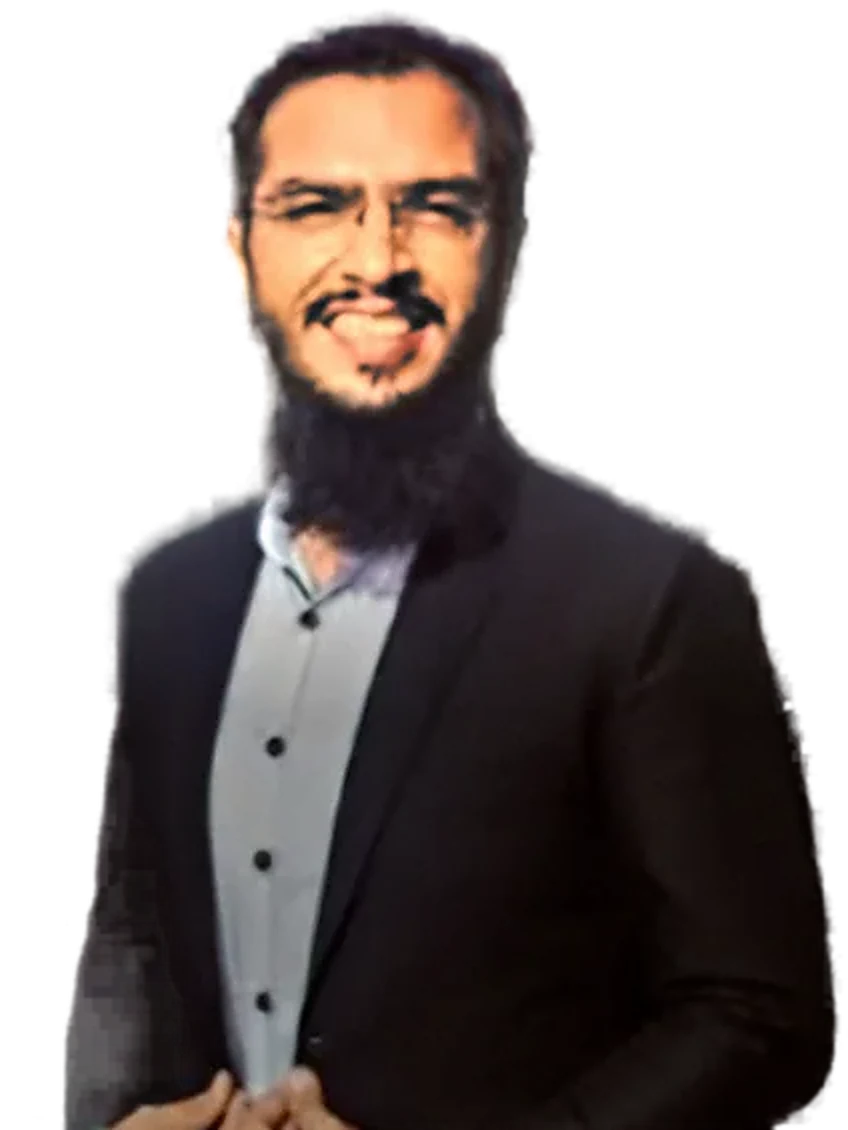
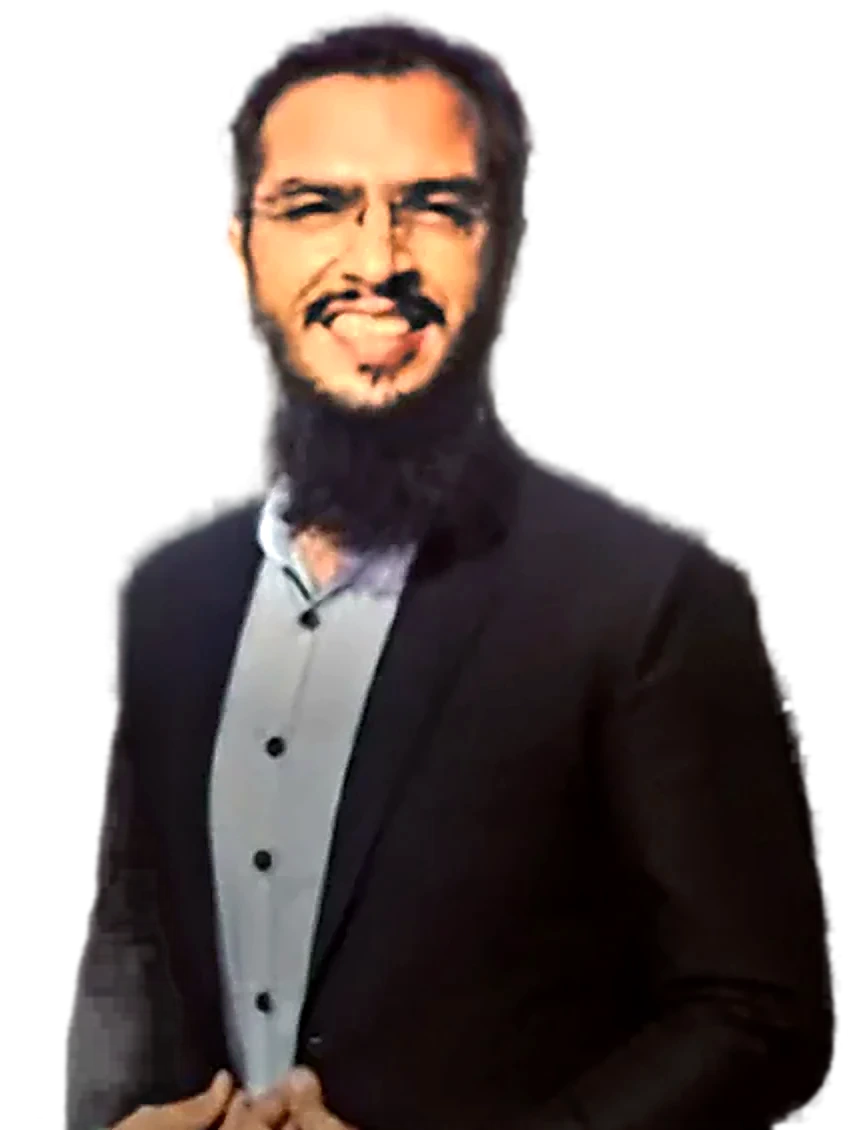
Add files via upload

diff --git a/index.html b/index.html
@@ -417,22 +417,33 @@ html.has-cursor .cursor{display:block}
 .hero-copy .lede b{color:var(--c-ink);font-weight:650}
 .hero-cta{display:flex;flex-wrap:wrap;align-items:center;gap:var(--s-4) var(--s-6);margin-top:var(--s-6)}
 
-/* lens hero */
-.lens{position:relative;margin:0;aspect-ratio:1/1.12;max-width:520px;width:100%;justify-self:center;transition:transform .7s var(--e-out)}
-.lens-field{position:absolute;left:0;right:0;bottom:0;aspect-ratio:1;border-radius:50%;overflow:hidden;background:radial-gradient(60% 60% at 50% 45%,color-mix(in oklab,var(--c-accent) 26%,transparent),transparent 70%),radial-gradient(90% 90% at 30% 80%,color-mix(in oklab,var(--c-cool) 20%,transparent),transparent 65%),var(--c-paper-2);border:1px solid var(--c-line-2);box-shadow:inset 0 0 0 10px color-mix(in oklab,var(--c-paper) 70%,transparent),inset 0 0 80px color-mix(in oklab,var(--c-paper) 85%,transparent),0 50px 100px -50px var(--c-shadow)}
-.reticle{position:absolute;inset:0;width:100%;height:100%}
-.reticle circle,.reticle path,.reticle line{fill:none;stroke:var(--c-ink-3);stroke-width:1;opacity:.45}
+/* lens hero: frameless portrait under an open reticle, lit from behind */
+.lens{position:relative;margin:0;aspect-ratio:1/1.12;max-width:540px;width:100%;justify-self:center;--px:0;--py:0;isolation:isolate}
+.ln-glow{position:absolute;left:6%;right:6%;top:8%;bottom:14%;border-radius:50%;z-index:-2;
+  background:radial-gradient(closest-side,color-mix(in oklab,var(--c-accent) 36%,transparent),transparent 72%),radial-gradient(42% 42% at 72% 30%,color-mix(in oklab,var(--c-cool) 34%,transparent),transparent 70%),radial-gradient(36% 36% at 26% 70%,color-mix(in oklab,var(--c-ok) 18%,transparent),transparent 70%);
+  filter:blur(30px);opacity:.9;transform:translate(calc(var(--px)*-18px),calc(var(--py)*-14px));animation:lnglow 7s ease-in-out infinite}
+@keyframes lnglow{50%{opacity:.62;scale:1.06}}
+.reticle{position:absolute;left:2%;top:4%;width:96%;height:auto;z-index:-1;overflow:visible;transform:translate(calc(var(--px)*-10px),calc(var(--py)*-8px))}
+.reticle circle,.reticle path,.reticle line{fill:none;stroke:var(--c-ink-3);stroke-width:1;opacity:.4}
 .reticle .r2{stroke-dasharray:2 6}
-.mag-read{position:absolute;left:50%;bottom:7%;transform:translateX(-50%);font-size:12px;letter-spacing:.12em;color:var(--c-ink-2);padding:4px 10px;border-radius:6px;background:color-mix(in oklab,var(--c-paper) 70%,transparent)}
-.lens-img{position:absolute;left:50%;bottom:0;width:78%;height:auto;transform:translateX(-50%);filter:drop-shadow(0 30px 40px var(--c-shadow));-webkit-mask-image:linear-gradient(#000 88%,transparent);mask-image:linear-gradient(#000 88%,transparent);border-radius:0 0 40% 40%}
-.lens .spec-tag{position:absolute;z-index:2;animation:bob 7s ease-in-out infinite}
-.lens .t1{left:-4%;top:30%}.lens .t2{right:-6%;top:46%;animation-delay:-2.3s}.lens .t3{left:6%;bottom:16%;animation-delay:-4.6s}
-@keyframes bob{50%{transform:translateY(-8px)}}
-.lens figcaption{position:absolute;right:2%;bottom:-6px;z-index:2;display:grid;gap:2px;text-align:right;padding:10px 14px;border-radius:14px;background:color-mix(in oklab,var(--c-paper-2) 90%,transparent);border:1px solid var(--c-line-2);backdrop-filter:blur(10px);-webkit-backdrop-filter:blur(10px)}
-.lens figcaption b{font:600 15px/1.2 var(--f-display);letter-spacing:-.03em}
+.reticle .arc{stroke:var(--c-accent);stroke-width:2.4;opacity:1;stroke-linecap:round;stroke-dasharray:16 84;transform-origin:200px 200px;animation:lnorb 18s linear infinite;filter:drop-shadow(0 0 6px var(--c-accent-glow))}
+@keyframes lnorb{to{transform:rotate(360deg)}}
+.ln-floor{position:absolute;left:16%;right:16%;bottom:-2%;height:10%;border-radius:50%;z-index:-1;background:radial-gradient(closest-side,var(--c-shadow),transparent);filter:blur(10px)}
+.ln-imgw{position:absolute;left:50%;bottom:0;width:86%;z-index:1;pointer-events:none;transform:translate(calc(-50% + var(--px)*8px),calc(var(--py)*5px));transition:transform .6s var(--e-out);
+  filter:drop-shadow(0 0 1px color-mix(in oklab,var(--c-accent) 45%,transparent)) drop-shadow(-6px -8px 22px color-mix(in oklab,var(--c-accent) 26%,transparent)) drop-shadow(10px -4px 24px color-mix(in oklab,var(--c-cool) 22%,transparent)) drop-shadow(0 40px 50px var(--c-shadow))}
+.lens-img{display:block;width:100%;height:auto;max-width:none;-webkit-mask-image:linear-gradient(to bottom,#000 80%,transparent 99%);mask-image:linear-gradient(to bottom,#000 80%,transparent 99%)}
+.ln-chip{position:absolute;z-index:2;border:1px solid var(--c-line-2);background:color-mix(in oklab,var(--c-paper-3) 70%,transparent);backdrop-filter:blur(14px) saturate(1.2);-webkit-backdrop-filter:blur(14px) saturate(1.2);box-shadow:0 22px 46px -26px var(--c-shadow),inset 0 1px 0 color-mix(in oklab,white 8%,transparent);
+  transform:translate(calc(var(--px)*var(--d,14px)),calc(var(--py)*var(--d,14px)));transition:transform .7s var(--e-out);animation:bob 6.5s ease-in-out infinite}
+@keyframes bob{50%{translate:0 -6px}}
+.lens .mag-read{left:50%;top:1%;margin-left:-38px;font-size:12px;letter-spacing:.12em;color:var(--c-ink-2);padding:6px 12px;border-radius:99px;animation-delay:-1s}
+.lens .spec-tag{height:32px;border-radius:99px}
+.lens .t1{left:-4%;top:30%;animation-delay:-2s}.lens .t2{right:-6%;top:44%;animation-delay:-3.4s}.lens .t3{left:2%;bottom:20%;animation-delay:-4.6s}
+.lens figcaption{right:2%;bottom:5%;display:grid;gap:2px;text-align:right;padding:12px 16px;border-radius:16px;animation-duration:8s;animation-delay:-5s}
+.lens figcaption b{font:600 16px/1.2 var(--f-display);letter-spacing:-.02em}
 .lens figcaption span{font:500 11.5px var(--f-mono);color:var(--c-ink-3)}
-@media (max-width:920px){.lens{max-width:380px}.lens .t1{left:0}.lens .t2{right:0}}
+@media (max-width:920px){.lens{max-width:420px}.lens .t1{left:0}.lens .t2{right:2%}.reticle{left:6%;width:88%}.lens .mag-read{top:-4%}}
 @media (max-width:480px){.lens .t3{display:none}.lens .spec-tag{font-size:10.5px}}
+@media (prefers-reduced-motion:reduce){.ln-glow,.reticle .arc,.ln-chip{animation:none}}
 
 .facts{display:grid;grid-template-columns:repeat(4,minmax(0,1fr));gap:1px;margin:clamp(40px,6vw,72px) 0 0;border-radius:var(--r-lg);overflow:hidden;background:var(--c-line);border:1px solid var(--c-line)}
 .facts>div{background:var(--c-paper-2);padding:var(--s-5)}
@@ -583,16 +594,16 @@ html.has-cursor .cursor{display:block}
         <a class="btn-link" href="lab.html#cell">Label a cell now <svg viewBox="0 0 24 24" fill="none" stroke="currentColor" stroke-width="2"><path d="M5 12h14M13 6l6 6-6 6"/></svg></a>
       </div>
     </div>
-    <figure class="lens" data-tilt="4">
-      <div class="lens-field" aria-hidden="true">
-        <svg class="reticle" viewBox="0 0 400 400"><circle cx="200" cy="200" r="196"/><circle cx="200" cy="200" r="130" class="r2"/><path d="M200 20v60M200 320v60M20 200h60M320 200h60"/><g class="ticks"></g></svg>
-        <span class="mag-read mono" id="magRead">× 400</span>
-      </div>
-      <img class="lens-img" src="umer-soni.webp" alt="Sir Umer Soni" width="848" height="1130" fetchpriority="high">
-      <span class="spec-tag t1"><i></i>5090 · 0610</span>
-      <span class="spec-tag t2"><i style="background:var(--c-ok)"></i>Diagram first</span>
-      <span class="spec-tag t3"><i style="background:var(--c-cool)"></i>Exam-focused · A* strategies</span>
-      <figcaption><b>Sir Umer Soni</b><span>Biology Educationist · Karachi</span></figcaption>
+    <figure class="lens" id="cover">
+      <span class="ln-glow" aria-hidden="true"></span>
+      <svg class="reticle" viewBox="0 0 400 400" aria-hidden="true"><circle cx="200" cy="200" r="196" class="r1"/><circle cx="200" cy="200" r="196" class="arc" pathLength="100"/><circle cx="200" cy="200" r="150" class="r2"/><path d="M200 0v40M200 360v40M0 200h40M360 200h40"/><g class="ticks"></g></svg>
+      <span class="ln-floor" aria-hidden="true"></span>
+      <span class="ln-imgw"><img class="lens-img" src="umer-soni.webp" alt="Sir Umer Soni" width="848" height="1130" fetchpriority="high"></span>
+      <span class="ln-chip mag-read mono" id="magRead" style="--d:20px">× 400</span>
+      <span class="ln-chip spec-tag t1" style="--d:-16px"><i></i>5090 · 0610</span>
+      <span class="ln-chip spec-tag t2" style="--d:24px"><i style="background:var(--c-ok)"></i>Diagram first</span>
+      <span class="ln-chip spec-tag t3" style="--d:-12px"><i style="background:var(--c-cool)"></i>Exam-focused · A* strategies</span>
+      <figcaption class="ln-chip" style="--d:-10px"><b>Sir Umer Soni</b><span>Biology Educationist · Karachi</span></figcaption>
     </figure>
   </div>
   <div class="wrap">
@@ -922,9 +933,11 @@ BIO.initBg=function(){
   const renderer=new T.WebGLRenderer({antialias:false,alpha:true,powerPreference:"high-performance"});
   renderer.setPixelRatio(dpr); renderer.setSize(innerWidth,innerHeight); host.appendChild(renderer.domElement);
   const scene=new T.Scene(), cam=new T.PerspectiveCamera(50,innerWidth/innerHeight,.1,200); cam.position.set(0,0,22);
-  const read=()=>{ const cs=getComputedStyle(root), tmp=document.createElement("i"); document.body.appendChild(tmp);
-    const g=v=>{ tmp.style.color=cs.getPropertyValue(v); const m=getComputedStyle(tmp).color.match(/[\d.]+/g)||[255,120,160]; return new T.Color(m[0]/255,m[1]/255,m[2]/255); };
-    const out=[g("--c-accent"),g("--c-cool"),g("--c-ok")]; tmp.remove(); return out; };
+  /* resolve theme tokens (oklch) to RGB through a 1px canvas, which understands any CSS colour */
+  const px=document.createElement("canvas"); px.width=px.height=1; const pc=px.getContext("2d",{willReadFrequently:true});
+  const read=()=>{ const cs=getComputedStyle(root);
+    const g=v=>{ pc.clearRect(0,0,1,1); pc.fillStyle="#808080"; pc.fillStyle=cs.getPropertyValue(v).trim(); pc.fillRect(0,0,1,1); const d=pc.getImageData(0,0,1,1).data; return new T.Color(d[0]/255,d[1]/255,d[2]/255); };
+    return [g("--c-accent"),g("--c-cool"),g("--c-ok")]; };
   let [cA,cB,cC]=read();
   const uni={uT:{value:0},uA:{value:cA},uB:{value:cB},uC:{value:cC},uS:{value:dpr},uLight:{value:isDark()?0:1},uPulse:{value:0}};
 
@@ -1039,9 +1052,10 @@ function reveals(){
   if(G&&ST){
     els.forEach(el=>{ const r=el.getBoundingClientRect(); if(r.top<innerHeight*.92) return; const kind=el.dataset.rv;
       const from=kind==="left"?{x:-80,opacity:0}:kind==="right"?{x:80,opacity:0}:kind==="scale"?{scale:.92,opacity:0}:kind==="clip"?{clipPath:"inset(0 0 100% 0)"}:{y:44,opacity:0};
-      G.from(el,{...from,duration:1,ease:"expo.out",delay:+(el.dataset.rvDelay||0),scrollTrigger:{trigger:el,start:"top 90%",once:true}}); });
+      el.style.transition="none"; G.from(el,{...from,duration:1,ease:"expo.out",delay:+(el.dataset.rvDelay||0),clearProps:"transform,opacity,clipPath",onComplete:()=>{ el.style.transition=""; },scrollTrigger:{trigger:el,start:"top 90%",once:true}}); });
     $$("[data-rv-stagger]").forEach(g=>{ const r=g.getBoundingClientRect(); if(r.top<innerHeight*.92) return; const kids=[...g.children];
-      G.from(kids,{y:50,opacity:0,rotateX:-8,transformOrigin:"50% 0",duration:.9,ease:"expo.out",stagger:.07,scrollTrigger:{trigger:g,start:"top 88%",once:true}}); });
+      kids.forEach(k=>k.style.transition="none");
+      G.from(kids,{y:50,opacity:0,rotateX:-8,transformOrigin:"50% 0",duration:.9,ease:"expo.out",stagger:.07,clearProps:"transform,opacity,transformOrigin",onComplete:()=>kids.forEach(k=>{ k.style.transition=""; }),scrollTrigger:{trigger:g,start:"top 88%",once:true}}); });
   } else if("IntersectionObserver" in window){
     const io=new IntersectionObserver(es=>es.forEach(e=>{ if(e.isIntersecting){ e.target.style.transition="opacity .9s var(--e-out),transform .9s var(--e-out)"; e.target.style.opacity=""; e.target.style.transform=""; io.unobserve(e.target);} }),{rootMargin:"0px 0px -8% 0px"});
     els.forEach(el=>{ if(el.getBoundingClientRect().top>innerHeight){ el.style.opacity="0"; el.style.transform="translateY(40px)"; io.observe(el);} });
@@ -1317,7 +1331,7 @@ BIO.boot=function(){ (BIO._q||[]).forEach(f=>{ try{f()}catch(e){console.error(e)
 
 /* home page */
 (function(){
-const {$,$$,RM,Snd,SYL,GROUP,GNAME,esc}=BIO; const G=window.gsap, ST=window.ScrollTrigger;
+const {$,$$,RM,FINE,Snd,SYL,GROUP,GNAME,esc}=BIO; const G=window.gsap, ST=window.ScrollTrigger;
 /* marquee of syllabus terms, colour-coded by organ system */
 const TERMS=[["Chloroplast","plant"],["Osmosis","cell"],["Alveoli","human"],["Xylem","plant"],["Active site","cell"],["Mitosis","life"],["Nephron","human"],["Food web","eco"],["Antibodies","human"],["Stomata","plant"],["Allele","life"],["Villi","human"],["Carbon cycle","eco"],["Diffusion","cell"],["Insulin","human"],["Phloem","plant"],["Meiosis","life"],["Biodiversity","eco"]];
 const t=$("#mqA"); if(t){ t.innerHTML=TERMS.map(([w,g])=>'<span class="chipx g-'+g+'"><i></i>'+w+"</span>").join(""); const c=t.cloneNode(true); c.removeAttribute("id"); c.setAttribute("aria-hidden","true"); t.after(c); }
@@ -1327,6 +1341,11 @@ $$("[data-count]").forEach(el=>{ if(RM) return; const end=+el.dataset.count, dec
   const run=()=>{ const t0=performance.now(); (function f(t){ const p=Math.min(1,(t-t0)/1500), e=1-Math.pow(1-p,4); el.textContent=(end*e).toFixed(dec); if(p<1) requestAnimationFrame(f); })(t0); };
   const io=new IntersectionObserver(es=>{ if(es[0].isIntersecting){ run(); io.disconnect(); } }); io.observe(el); });
 
+/* frameless portrait: layered parallax */
+const cover=$("#cover"), heroEl=$(".hero"); if(cover&&heroEl&&FINE&&!RM){ let tx=0,ty=0,cx=0,cy=0,raf=0;
+  const loop=()=>{ cx+=(tx-cx)*.08; cy+=(ty-cy)*.08; cover.style.setProperty("--px",cx.toFixed(3)); cover.style.setProperty("--py",cy.toFixed(3)); raf=(Math.abs(tx-cx)+Math.abs(ty-cy)>.001)?requestAnimationFrame(loop):0; };
+  heroEl.addEventListener("pointermove",e=>{ const r=cover.getBoundingClientRect(); tx=Math.max(-1,Math.min(1,(e.clientX-(r.left+r.width/2))/r.width)); ty=Math.max(-1,Math.min(1,(e.clientY-(r.top+r.height/2))/r.height)); if(!raf) raf=requestAnimationFrame(loop); });
+  heroEl.addEventListener("pointerleave",()=>{ tx=ty=0; if(!raf) raf=requestAnimationFrame(loop); }); }
 /* lens reticle ticks + magnification readout */
 const ticks=$(".reticle .ticks"); if(ticks){ let h=""; for(let i=0;i<72;i++){ const a=i/72*Math.PI*2, r1=196, r2=i%6?188:180; h+='<line x1="'+(200+Math.cos(a)*r1).toFixed(1)+'" y1="'+(200+Math.sin(a)*r1).toFixed(1)+'" x2="'+(200+Math.cos(a)*r2).toFixed(1)+'" y2="'+(200+Math.sin(a)*r2).toFixed(1)+'"/>'; } ticks.innerHTML=h; }
 const mr=$("#magRead"); if(mr&&!RM){ const M=["× 40","× 100","× 400"]; let i=2; setInterval(()=>{ i=(i+1)%3; mr.textContent=M[i]; },3600); }

diff --git a/about.html b/about.html
@@ -411,9 +411,9 @@ html.has-cursor .cursor{display:block}
 .ab-grid{display:grid;grid-template-columns:minmax(0,.85fr) minmax(0,1.15fr);gap:clamp(32px,5vw,80px);align-items:center}
 @media (max-width:900px){.ab-grid{grid-template-columns:1fr}}
 .ab-portrait{position:relative;margin:0;aspect-ratio:4/4.6;max-width:460px;width:100%;justify-self:center;transition:transform .6s var(--e-out)}
-.ab-disc{position:absolute;left:4%;right:4%;bottom:0;aspect-ratio:1;border-radius:46% 54% 50% 50% / 52% 48% 52% 48%;background:radial-gradient(60% 60% at 40% 40%,color-mix(in oklab,var(--c-accent) 34%,transparent),transparent 72%),radial-gradient(70% 70% at 70% 80%,color-mix(in oklab,var(--c-cool) 26%,transparent),transparent 70%),var(--c-paper-2);border:1px solid var(--c-line-2);animation:morph 14s ease-in-out infinite}
-@keyframes morph{50%{border-radius:56% 44% 42% 58% / 44% 58% 42% 56%}}
-.ab-portrait img{position:absolute;left:50%;bottom:0;width:80%;height:auto;transform:translateX(-50%);filter:drop-shadow(0 30px 40px var(--c-shadow));-webkit-mask-image:linear-gradient(#000 90%,transparent);mask-image:linear-gradient(#000 90%,transparent)}
+.ab-disc{position:absolute;left:4%;right:4%;top:10%;bottom:10%;border-radius:50%;background:radial-gradient(closest-side,color-mix(in oklab,var(--c-accent) 34%,transparent),transparent 72%),radial-gradient(42% 42% at 70% 30%,color-mix(in oklab,var(--c-cool) 30%,transparent),transparent 70%);filter:blur(28px);animation:abglow 7s ease-in-out infinite}
+@keyframes abglow{50%{opacity:.65;scale:1.05}}
+.ab-portrait img{position:absolute;left:50%;bottom:0;width:80%;height:auto;transform:translateX(-50%);z-index:1;-webkit-mask-image:linear-gradient(#000 82%,transparent 99%);mask-image:linear-gradient(#000 82%,transparent 99%)}
 .ab-t{position:absolute;left:0;top:14%;z-index:2}
 .ab-copy{display:grid;gap:var(--s-4)}
 .ab-copy h1{font-size:var(--t-3xl);font-weight:600;letter-spacing:-.06em;line-height:1}
@@ -449,6 +449,12 @@ html.has-cursor .cursor{display:block}
 .v-play{flex:none;width:54px;height:54px;border-radius:50%;background:var(--c-accent);color:var(--c-on-accent);display:grid;place-items:center;box-shadow:0 0 0 10px var(--c-accent-soft)}
 .v-play svg{width:22px;height:22px}
 .final-h{font-size:clamp(36px,6.6vw,96px);font-weight:600;letter-spacing:-.06em;line-height:1;max-width:13ch}
+.ab-ring{position:absolute;left:4%;top:6%;width:92%;height:auto;overflow:visible;z-index:0}
+.ab-ring circle{fill:none}.ab-ring .r1{stroke:var(--c-line-2);stroke-width:1}
+.ab-ring .r2{stroke:var(--c-accent);stroke-width:2.2;stroke-linecap:round;stroke-dasharray:16 84;transform-origin:200px 200px;animation:aborb 20s linear infinite;filter:drop-shadow(0 0 6px var(--c-accent-glow))}
+@keyframes aborb{to{transform:rotate(360deg)}}
+.ab-portrait{filter:drop-shadow(0 0 1px color-mix(in oklab,var(--c-accent) 40%,transparent)) drop-shadow(-6px -8px 22px color-mix(in oklab,var(--c-accent) 24%,transparent))}
+.ab-t{z-index:2}
 
 </style>
 </head>
@@ -469,8 +475,8 @@ html.has-cursor .cursor{display:block}
 <main id="main">
 <section class="ab-hero">
   <div class="wrap ab-grid">
-    <figure class="ab-portrait" data-tilt="4">
-      <span class="ab-disc" aria-hidden="true"></span>
+    <figure class="ab-portrait">
+      <span class="ab-disc" aria-hidden="true"></span><svg class="ab-ring" viewBox="0 0 400 400" aria-hidden="true"><circle class="r1" cx="200" cy="200" r="190"/><circle class="r2" cx="200" cy="200" r="190" pathLength="100"/></svg>
       <img src="umer-soni.webp" alt="Sir Umer Soni" width="848" height="1130">
       <span class="spec-tag ab-t"><i></i>Specimen · Biology Educationist</span>
     </figure>
@@ -765,9 +771,11 @@ BIO.initBg=function(){
   const renderer=new T.WebGLRenderer({antialias:false,alpha:true,powerPreference:"high-performance"});
   renderer.setPixelRatio(dpr); renderer.setSize(innerWidth,innerHeight); host.appendChild(renderer.domElement);
   const scene=new T.Scene(), cam=new T.PerspectiveCamera(50,innerWidth/innerHeight,.1,200); cam.position.set(0,0,22);
-  const read=()=>{ const cs=getComputedStyle(root), tmp=document.createElement("i"); document.body.appendChild(tmp);
-    const g=v=>{ tmp.style.color=cs.getPropertyValue(v); const m=getComputedStyle(tmp).color.match(/[\d.]+/g)||[255,120,160]; return new T.Color(m[0]/255,m[1]/255,m[2]/255); };
-    const out=[g("--c-accent"),g("--c-cool"),g("--c-ok")]; tmp.remove(); return out; };
+  /* resolve theme tokens (oklch) to RGB through a 1px canvas, which understands any CSS colour */
+  const px=document.createElement("canvas"); px.width=px.height=1; const pc=px.getContext("2d",{willReadFrequently:true});
+  const read=()=>{ const cs=getComputedStyle(root);
+    const g=v=>{ pc.clearRect(0,0,1,1); pc.fillStyle="#808080"; pc.fillStyle=cs.getPropertyValue(v).trim(); pc.fillRect(0,0,1,1); const d=pc.getImageData(0,0,1,1).data; return new T.Color(d[0]/255,d[1]/255,d[2]/255); };
+    return [g("--c-accent"),g("--c-cool"),g("--c-ok")]; };
   let [cA,cB,cC]=read();
   const uni={uT:{value:0},uA:{value:cA},uB:{value:cB},uC:{value:cC},uS:{value:dpr},uLight:{value:isDark()?0:1},uPulse:{value:0}};
 
@@ -882,9 +890,10 @@ function reveals(){
   if(G&&ST){
     els.forEach(el=>{ const r=el.getBoundingClientRect(); if(r.top<innerHeight*.92) return; const kind=el.dataset.rv;
       const from=kind==="left"?{x:-80,opacity:0}:kind==="right"?{x:80,opacity:0}:kind==="scale"?{scale:.92,opacity:0}:kind==="clip"?{clipPath:"inset(0 0 100% 0)"}:{y:44,opacity:0};
-      G.from(el,{...from,duration:1,ease:"expo.out",delay:+(el.dataset.rvDelay||0),scrollTrigger:{trigger:el,start:"top 90%",once:true}}); });
+      el.style.transition="none"; G.from(el,{...from,duration:1,ease:"expo.out",delay:+(el.dataset.rvDelay||0),clearProps:"transform,opacity,clipPath",onComplete:()=>{ el.style.transition=""; },scrollTrigger:{trigger:el,start:"top 90%",once:true}}); });
     $$("[data-rv-stagger]").forEach(g=>{ const r=g.getBoundingClientRect(); if(r.top<innerHeight*.92) return; const kids=[...g.children];
-      G.from(kids,{y:50,opacity:0,rotateX:-8,transformOrigin:"50% 0",duration:.9,ease:"expo.out",stagger:.07,scrollTrigger:{trigger:g,start:"top 88%",once:true}}); });
+      kids.forEach(k=>k.style.transition="none");
+      G.from(kids,{y:50,opacity:0,rotateX:-8,transformOrigin:"50% 0",duration:.9,ease:"expo.out",stagger:.07,clearProps:"transform,opacity,transformOrigin",onComplete:()=>kids.forEach(k=>{ k.style.transition=""; }),scrollTrigger:{trigger:g,start:"top 88%",once:true}}); });
   } else if("IntersectionObserver" in window){
     const io=new IntersectionObserver(es=>es.forEach(e=>{ if(e.isIntersecting){ e.target.style.transition="opacity .9s var(--e-out),transform .9s var(--e-out)"; e.target.style.opacity=""; e.target.style.transform=""; io.unobserve(e.target);} }),{rootMargin:"0px 0px -8% 0px"});
     els.forEach(el=>{ if(el.getBoundingClientRect().top>innerHeight){ el.style.opacity="0"; el.style.transform="translateY(40px)"; io.observe(el);} });

diff --git a/lab.html b/lab.html
@@ -886,9 +886,11 @@ BIO.initBg=function(){
   const renderer=new T.WebGLRenderer({antialias:false,alpha:true,powerPreference:"high-performance"});
   renderer.setPixelRatio(dpr); renderer.setSize(innerWidth,innerHeight); host.appendChild(renderer.domElement);
   const scene=new T.Scene(), cam=new T.PerspectiveCamera(50,innerWidth/innerHeight,.1,200); cam.position.set(0,0,22);
-  const read=()=>{ const cs=getComputedStyle(root), tmp=document.createElement("i"); document.body.appendChild(tmp);
-    const g=v=>{ tmp.style.color=cs.getPropertyValue(v); const m=getComputedStyle(tmp).color.match(/[\d.]+/g)||[255,120,160]; return new T.Color(m[0]/255,m[1]/255,m[2]/255); };
-    const out=[g("--c-accent"),g("--c-cool"),g("--c-ok")]; tmp.remove(); return out; };
+  /* resolve theme tokens (oklch) to RGB through a 1px canvas, which understands any CSS colour */
+  const px=document.createElement("canvas"); px.width=px.height=1; const pc=px.getContext("2d",{willReadFrequently:true});
+  const read=()=>{ const cs=getComputedStyle(root);
+    const g=v=>{ pc.clearRect(0,0,1,1); pc.fillStyle="#808080"; pc.fillStyle=cs.getPropertyValue(v).trim(); pc.fillRect(0,0,1,1); const d=pc.getImageData(0,0,1,1).data; return new T.Color(d[0]/255,d[1]/255,d[2]/255); };
+    return [g("--c-accent"),g("--c-cool"),g("--c-ok")]; };
   let [cA,cB,cC]=read();
   const uni={uT:{value:0},uA:{value:cA},uB:{value:cB},uC:{value:cC},uS:{value:dpr},uLight:{value:isDark()?0:1},uPulse:{value:0}};
 
@@ -1003,9 +1005,10 @@ function reveals(){
   if(G&&ST){
     els.forEach(el=>{ const r=el.getBoundingClientRect(); if(r.top<innerHeight*.92) return; const kind=el.dataset.rv;
       const from=kind==="left"?{x:-80,opacity:0}:kind==="right"?{x:80,opacity:0}:kind==="scale"?{scale:.92,opacity:0}:kind==="clip"?{clipPath:"inset(0 0 100% 0)"}:{y:44,opacity:0};
-      G.from(el,{...from,duration:1,ease:"expo.out",delay:+(el.dataset.rvDelay||0),scrollTrigger:{trigger:el,start:"top 90%",once:true}}); });
+      el.style.transition="none"; G.from(el,{...from,duration:1,ease:"expo.out",delay:+(el.dataset.rvDelay||0),clearProps:"transform,opacity,clipPath",onComplete:()=>{ el.style.transition=""; },scrollTrigger:{trigger:el,start:"top 90%",once:true}}); });
     $$("[data-rv-stagger]").forEach(g=>{ const r=g.getBoundingClientRect(); if(r.top<innerHeight*.92) return; const kids=[...g.children];
-      G.from(kids,{y:50,opacity:0,rotateX:-8,transformOrigin:"50% 0",duration:.9,ease:"expo.out",stagger:.07,scrollTrigger:{trigger:g,start:"top 88%",once:true}}); });
+      kids.forEach(k=>k.style.transition="none");
+      G.from(kids,{y:50,opacity:0,rotateX:-8,transformOrigin:"50% 0",duration:.9,ease:"expo.out",stagger:.07,clearProps:"transform,opacity,transformOrigin",onComplete:()=>kids.forEach(k=>{ k.style.transition=""; }),scrollTrigger:{trigger:g,start:"top 88%",once:true}}); });
   } else if("IntersectionObserver" in window){
     const io=new IntersectionObserver(es=>es.forEach(e=>{ if(e.isIntersecting){ e.target.style.transition="opacity .9s var(--e-out),transform .9s var(--e-out)"; e.target.style.opacity=""; e.target.style.transform=""; io.unobserve(e.target);} }),{rootMargin:"0px 0px -8% 0px"});
     els.forEach(el=>{ if(el.getBoundingClientRect().top>innerHeight){ el.style.opacity="0"; el.style.transform="translateY(40px)"; io.observe(el);} });

diff --git a/404.html b/404.html
@@ -665,9 +665,11 @@ BIO.initBg=function(){
   const renderer=new T.WebGLRenderer({antialias:false,alpha:true,powerPreference:"high-performance"});
   renderer.setPixelRatio(dpr); renderer.setSize(innerWidth,innerHeight); host.appendChild(renderer.domElement);
   const scene=new T.Scene(), cam=new T.PerspectiveCamera(50,innerWidth/innerHeight,.1,200); cam.position.set(0,0,22);
-  const read=()=>{ const cs=getComputedStyle(root), tmp=document.createElement("i"); document.body.appendChild(tmp);
-    const g=v=>{ tmp.style.color=cs.getPropertyValue(v); const m=getComputedStyle(tmp).color.match(/[\d.]+/g)||[255,120,160]; return new T.Color(m[0]/255,m[1]/255,m[2]/255); };
-    const out=[g("--c-accent"),g("--c-cool"),g("--c-ok")]; tmp.remove(); return out; };
+  /* resolve theme tokens (oklch) to RGB through a 1px canvas, which understands any CSS colour */
+  const px=document.createElement("canvas"); px.width=px.height=1; const pc=px.getContext("2d",{willReadFrequently:true});
+  const read=()=>{ const cs=getComputedStyle(root);
+    const g=v=>{ pc.clearRect(0,0,1,1); pc.fillStyle="#808080"; pc.fillStyle=cs.getPropertyValue(v).trim(); pc.fillRect(0,0,1,1); const d=pc.getImageData(0,0,1,1).data; return new T.Color(d[0]/255,d[1]/255,d[2]/255); };
+    return [g("--c-accent"),g("--c-cool"),g("--c-ok")]; };
   let [cA,cB,cC]=read();
   const uni={uT:{value:0},uA:{value:cA},uB:{value:cB},uC:{value:cC},uS:{value:dpr},uLight:{value:isDark()?0:1},uPulse:{value:0}};
 
@@ -782,9 +784,10 @@ function reveals(){
   if(G&&ST){
     els.forEach(el=>{ const r=el.getBoundingClientRect(); if(r.top<innerHeight*.92) return; const kind=el.dataset.rv;
       const from=kind==="left"?{x:-80,opacity:0}:kind==="right"?{x:80,opacity:0}:kind==="scale"?{scale:.92,opacity:0}:kind==="clip"?{clipPath:"inset(0 0 100% 0)"}:{y:44,opacity:0};
-      G.from(el,{...from,duration:1,ease:"expo.out",delay:+(el.dataset.rvDelay||0),scrollTrigger:{trigger:el,start:"top 90%",once:true}}); });
+      el.style.transition="none"; G.from(el,{...from,duration:1,ease:"expo.out",delay:+(el.dataset.rvDelay||0),clearProps:"transform,opacity,clipPath",onComplete:()=>{ el.style.transition=""; },scrollTrigger:{trigger:el,start:"top 90%",once:true}}); });
     $$("[data-rv-stagger]").forEach(g=>{ const r=g.getBoundingClientRect(); if(r.top<innerHeight*.92) return; const kids=[...g.children];
-      G.from(kids,{y:50,opacity:0,rotateX:-8,transformOrigin:"50% 0",duration:.9,ease:"expo.out",stagger:.07,scrollTrigger:{trigger:g,start:"top 88%",once:true}}); });
+      kids.forEach(k=>k.style.transition="none");
+      G.from(kids,{y:50,opacity:0,rotateX:-8,transformOrigin:"50% 0",duration:.9,ease:"expo.out",stagger:.07,clearProps:"transform,opacity,transformOrigin",onComplete:()=>kids.forEach(k=>{ k.style.transition=""; }),scrollTrigger:{trigger:g,start:"top 88%",once:true}}); });
   } else if("IntersectionObserver" in window){
     const io=new IntersectionObserver(es=>es.forEach(e=>{ if(e.isIntersecting){ e.target.style.transition="opacity .9s var(--e-out),transform .9s var(--e-out)"; e.target.style.opacity=""; e.target.style.transform=""; io.unobserve(e.target);} }),{rootMargin:"0px 0px -8% 0px"});
     els.forEach(el=>{ if(el.getBoundingClientRect().top>innerHeight){ el.style.opacity="0"; el.style.transform="translateY(40px)"; io.observe(el);} });

diff --git a/contact.html b/contact.html
@@ -730,9 +730,11 @@ BIO.initBg=function(){
   const renderer=new T.WebGLRenderer({antialias:false,alpha:true,powerPreference:"high-performance"});
   renderer.setPixelRatio(dpr); renderer.setSize(innerWidth,innerHeight); host.appendChild(renderer.domElement);
   const scene=new T.Scene(), cam=new T.PerspectiveCamera(50,innerWidth/innerHeight,.1,200); cam.position.set(0,0,22);
-  const read=()=>{ const cs=getComputedStyle(root), tmp=document.createElement("i"); document.body.appendChild(tmp);
-    const g=v=>{ tmp.style.color=cs.getPropertyValue(v); const m=getComputedStyle(tmp).color.match(/[\d.]+/g)||[255,120,160]; return new T.Color(m[0]/255,m[1]/255,m[2]/255); };
-    const out=[g("--c-accent"),g("--c-cool"),g("--c-ok")]; tmp.remove(); return out; };
+  /* resolve theme tokens (oklch) to RGB through a 1px canvas, which understands any CSS colour */
+  const px=document.createElement("canvas"); px.width=px.height=1; const pc=px.getContext("2d",{willReadFrequently:true});
+  const read=()=>{ const cs=getComputedStyle(root);
+    const g=v=>{ pc.clearRect(0,0,1,1); pc.fillStyle="#808080"; pc.fillStyle=cs.getPropertyValue(v).trim(); pc.fillRect(0,0,1,1); const d=pc.getImageData(0,0,1,1).data; return new T.Color(d[0]/255,d[1]/255,d[2]/255); };
+    return [g("--c-accent"),g("--c-cool"),g("--c-ok")]; };
   let [cA,cB,cC]=read();
   const uni={uT:{value:0},uA:{value:cA},uB:{value:cB},uC:{value:cC},uS:{value:dpr},uLight:{value:isDark()?0:1},uPulse:{value:0}};
 
@@ -847,9 +849,10 @@ function reveals(){
   if(G&&ST){
     els.forEach(el=>{ const r=el.getBoundingClientRect(); if(r.top<innerHeight*.92) return; const kind=el.dataset.rv;
       const from=kind==="left"?{x:-80,opacity:0}:kind==="right"?{x:80,opacity:0}:kind==="scale"?{scale:.92,opacity:0}:kind==="clip"?{clipPath:"inset(0 0 100% 0)"}:{y:44,opacity:0};
-      G.from(el,{...from,duration:1,ease:"expo.out",delay:+(el.dataset.rvDelay||0),scrollTrigger:{trigger:el,start:"top 90%",once:true}}); });
+      el.style.transition="none"; G.from(el,{...from,duration:1,ease:"expo.out",delay:+(el.dataset.rvDelay||0),clearProps:"transform,opacity,clipPath",onComplete:()=>{ el.style.transition=""; },scrollTrigger:{trigger:el,start:"top 90%",once:true}}); });
     $$("[data-rv-stagger]").forEach(g=>{ const r=g.getBoundingClientRect(); if(r.top<innerHeight*.92) return; const kids=[...g.children];
-      G.from(kids,{y:50,opacity:0,rotateX:-8,transformOrigin:"50% 0",duration:.9,ease:"expo.out",stagger:.07,scrollTrigger:{trigger:g,start:"top 88%",once:true}}); });
+      kids.forEach(k=>k.style.transition="none");
+      G.from(kids,{y:50,opacity:0,rotateX:-8,transformOrigin:"50% 0",duration:.9,ease:"expo.out",stagger:.07,clearProps:"transform,opacity,transformOrigin",onComplete:()=>kids.forEach(k=>{ k.style.transition=""; }),scrollTrigger:{trigger:g,start:"top 88%",once:true}}); });
   } else if("IntersectionObserver" in window){
     const io=new IntersectionObserver(es=>es.forEach(e=>{ if(e.isIntersecting){ e.target.style.transition="opacity .9s var(--e-out),transform .9s var(--e-out)"; e.target.style.opacity=""; e.target.style.transform=""; io.unobserve(e.target);} }),{rootMargin:"0px 0px -8% 0px"});
     els.forEach(el=>{ if(el.getBoundingClientRect().top>innerHeight){ el.style.opacity="0"; el.style.transform="translateY(40px)"; io.observe(el);} });

diff --git a/courses.html b/courses.html
@@ -810,9 +810,11 @@ BIO.initBg=function(){
   const renderer=new T.WebGLRenderer({antialias:false,alpha:true,powerPreference:"high-performance"});
   renderer.setPixelRatio(dpr); renderer.setSize(innerWidth,innerHeight); host.appendChild(renderer.domElement);
   const scene=new T.Scene(), cam=new T.PerspectiveCamera(50,innerWidth/innerHeight,.1,200); cam.position.set(0,0,22);
-  const read=()=>{ const cs=getComputedStyle(root), tmp=document.createElement("i"); document.body.appendChild(tmp);
-    const g=v=>{ tmp.style.color=cs.getPropertyValue(v); const m=getComputedStyle(tmp).color.match(/[\d.]+/g)||[255,120,160]; return new T.Color(m[0]/255,m[1]/255,m[2]/255); };
-    const out=[g("--c-accent"),g("--c-cool"),g("--c-ok")]; tmp.remove(); return out; };
+  /* resolve theme tokens (oklch) to RGB through a 1px canvas, which understands any CSS colour */
+  const px=document.createElement("canvas"); px.width=px.height=1; const pc=px.getContext("2d",{willReadFrequently:true});
+  const read=()=>{ const cs=getComputedStyle(root);
+    const g=v=>{ pc.clearRect(0,0,1,1); pc.fillStyle="#808080"; pc.fillStyle=cs.getPropertyValue(v).trim(); pc.fillRect(0,0,1,1); const d=pc.getImageData(0,0,1,1).data; return new T.Color(d[0]/255,d[1]/255,d[2]/255); };
+    return [g("--c-accent"),g("--c-cool"),g("--c-ok")]; };
   let [cA,cB,cC]=read();
   const uni={uT:{value:0},uA:{value:cA},uB:{value:cB},uC:{value:cC},uS:{value:dpr},uLight:{value:isDark()?0:1},uPulse:{value:0}};
 
@@ -927,9 +929,10 @@ function reveals(){
   if(G&&ST){
     els.forEach(el=>{ const r=el.getBoundingClientRect(); if(r.top<innerHeight*.92) return; const kind=el.dataset.rv;
       const from=kind==="left"?{x:-80,opacity:0}:kind==="right"?{x:80,opacity:0}:kind==="scale"?{scale:.92,opacity:0}:kind==="clip"?{clipPath:"inset(0 0 100% 0)"}:{y:44,opacity:0};
-      G.from(el,{...from,duration:1,ease:"expo.out",delay:+(el.dataset.rvDelay||0),scrollTrigger:{trigger:el,start:"top 90%",once:true}}); });
+      el.style.transition="none"; G.from(el,{...from,duration:1,ease:"expo.out",delay:+(el.dataset.rvDelay||0),clearProps:"transform,opacity,clipPath",onComplete:()=>{ el.style.transition=""; },scrollTrigger:{trigger:el,start:"top 90%",once:true}}); });
     $$("[data-rv-stagger]").forEach(g=>{ const r=g.getBoundingClientRect(); if(r.top<innerHeight*.92) return; const kids=[...g.children];
-      G.from(kids,{y:50,opacity:0,rotateX:-8,transformOrigin:"50% 0",duration:.9,ease:"expo.out",stagger:.07,scrollTrigger:{trigger:g,start:"top 88%",once:true}}); });
+      kids.forEach(k=>k.style.transition="none");
+      G.from(kids,{y:50,opacity:0,rotateX:-8,transformOrigin:"50% 0",duration:.9,ease:"expo.out",stagger:.07,clearProps:"transform,opacity,transformOrigin",onComplete:()=>kids.forEach(k=>{ k.style.transition=""; }),scrollTrigger:{trigger:g,start:"top 88%",once:true}}); });
   } else if("IntersectionObserver" in window){
     const io=new IntersectionObserver(es=>es.forEach(e=>{ if(e.isIntersecting){ e.target.style.transition="opacity .9s var(--e-out),transform .9s var(--e-out)"; e.target.style.opacity=""; e.target.style.transform=""; io.unobserve(e.target);} }),{rootMargin:"0px 0px -8% 0px"});
     els.forEach(el=>{ if(el.getBoundingClientRect().top>innerHeight){ el.style.opacity="0"; el.style.transform="translateY(40px)"; io.observe(el);} });

diff --git a/notes.html b/notes.html
@@ -719,9 +719,11 @@ BIO.initBg=function(){
   const renderer=new T.WebGLRenderer({antialias:false,alpha:true,powerPreference:"high-performance"});
   renderer.setPixelRatio(dpr); renderer.setSize(innerWidth,innerHeight); host.appendChild(renderer.domElement);
   const scene=new T.Scene(), cam=new T.PerspectiveCamera(50,innerWidth/innerHeight,.1,200); cam.position.set(0,0,22);
-  const read=()=>{ const cs=getComputedStyle(root), tmp=document.createElement("i"); document.body.appendChild(tmp);
-    const g=v=>{ tmp.style.color=cs.getPropertyValue(v); const m=getComputedStyle(tmp).color.match(/[\d.]+/g)||[255,120,160]; return new T.Color(m[0]/255,m[1]/255,m[2]/255); };
-    const out=[g("--c-accent"),g("--c-cool"),g("--c-ok")]; tmp.remove(); return out; };
+  /* resolve theme tokens (oklch) to RGB through a 1px canvas, which understands any CSS colour */
+  const px=document.createElement("canvas"); px.width=px.height=1; const pc=px.getContext("2d",{willReadFrequently:true});
+  const read=()=>{ const cs=getComputedStyle(root);
+    const g=v=>{ pc.clearRect(0,0,1,1); pc.fillStyle="#808080"; pc.fillStyle=cs.getPropertyValue(v).trim(); pc.fillRect(0,0,1,1); const d=pc.getImageData(0,0,1,1).data; return new T.Color(d[0]/255,d[1]/255,d[2]/255); };
+    return [g("--c-accent"),g("--c-cool"),g("--c-ok")]; };
   let [cA,cB,cC]=read();
   const uni={uT:{value:0},uA:{value:cA},uB:{value:cB},uC:{value:cC},uS:{value:dpr},uLight:{value:isDark()?0:1},uPulse:{value:0}};
 
@@ -836,9 +838,10 @@ function reveals(){
   if(G&&ST){
     els.forEach(el=>{ const r=el.getBoundingClientRect(); if(r.top<innerHeight*.92) return; const kind=el.dataset.rv;
       const from=kind==="left"?{x:-80,opacity:0}:kind==="right"?{x:80,opacity:0}:kind==="scale"?{scale:.92,opacity:0}:kind==="clip"?{clipPath:"inset(0 0 100% 0)"}:{y:44,opacity:0};
-      G.from(el,{...from,duration:1,ease:"expo.out",delay:+(el.dataset.rvDelay||0),scrollTrigger:{trigger:el,start:"top 90%",once:true}}); });
+      el.style.transition="none"; G.from(el,{...from,duration:1,ease:"expo.out",delay:+(el.dataset.rvDelay||0),clearProps:"transform,opacity,clipPath",onComplete:()=>{ el.style.transition=""; },scrollTrigger:{trigger:el,start:"top 90%",once:true}}); });
     $$("[data-rv-stagger]").forEach(g=>{ const r=g.getBoundingClientRect(); if(r.top<innerHeight*.92) return; const kids=[...g.children];
-      G.from(kids,{y:50,opacity:0,rotateX:-8,transformOrigin:"50% 0",duration:.9,ease:"expo.out",stagger:.07,scrollTrigger:{trigger:g,start:"top 88%",once:true}}); });
+      kids.forEach(k=>k.style.transition="none");
+      G.from(kids,{y:50,opacity:0,rotateX:-8,transformOrigin:"50% 0",duration:.9,ease:"expo.out",stagger:.07,clearProps:"transform,opacity,transformOrigin",onComplete:()=>kids.forEach(k=>{ k.style.transition=""; }),scrollTrigger:{trigger:g,start:"top 88%",once:true}}); });
   } else if("IntersectionObserver" in window){
     const io=new IntersectionObserver(es=>es.forEach(e=>{ if(e.isIntersecting){ e.target.style.transition="opacity .9s var(--e-out),transform .9s var(--e-out)"; e.target.style.opacity=""; e.target.style.transform=""; io.unobserve(e.target);} }),{rootMargin:"0px 0px -8% 0px"});
     els.forEach(el=>{ if(el.getBoundingClientRect().top>innerHeight){ el.style.opacity="0"; el.style.transform="translateY(40px)"; io.observe(el);} });

diff --git a/past-papers.html b/past-papers.html
@@ -822,9 +822,11 @@ BIO.initBg=function(){
   const renderer=new T.WebGLRenderer({antialias:false,alpha:true,powerPreference:"high-performance"});
   renderer.setPixelRatio(dpr); renderer.setSize(innerWidth,innerHeight); host.appendChild(renderer.domElement);
   const scene=new T.Scene(), cam=new T.PerspectiveCamera(50,innerWidth/innerHeight,.1,200); cam.position.set(0,0,22);
-  const read=()=>{ const cs=getComputedStyle(root), tmp=document.createElement("i"); document.body.appendChild(tmp);
-    const g=v=>{ tmp.style.color=cs.getPropertyValue(v); const m=getComputedStyle(tmp).color.match(/[\d.]+/g)||[255,120,160]; return new T.Color(m[0]/255,m[1]/255,m[2]/255); };
-    const out=[g("--c-accent"),g("--c-cool"),g("--c-ok")]; tmp.remove(); return out; };
+  /* resolve theme tokens (oklch) to RGB through a 1px canvas, which understands any CSS colour */
+  const px=document.createElement("canvas"); px.width=px.height=1; const pc=px.getContext("2d",{willReadFrequently:true});
+  const read=()=>{ const cs=getComputedStyle(root);
+    const g=v=>{ pc.clearRect(0,0,1,1); pc.fillStyle="#808080"; pc.fillStyle=cs.getPropertyValue(v).trim(); pc.fillRect(0,0,1,1); const d=pc.getImageData(0,0,1,1).data; return new T.Color(d[0]/255,d[1]/255,d[2]/255); };
+    return [g("--c-accent"),g("--c-cool"),g("--c-ok")]; };
   let [cA,cB,cC]=read();
   const uni={uT:{value:0},uA:{value:cA},uB:{value:cB},uC:{value:cC},uS:{value:dpr},uLight:{value:isDark()?0:1},uPulse:{value:0}};
 
@@ -939,9 +941,10 @@ function reveals(){
   if(G&&ST){
     els.forEach(el=>{ const r=el.getBoundingClientRect(); if(r.top<innerHeight*.92) return; const kind=el.dataset.rv;
       const from=kind==="left"?{x:-80,opacity:0}:kind==="right"?{x:80,opacity:0}:kind==="scale"?{scale:.92,opacity:0}:kind==="clip"?{clipPath:"inset(0 0 100% 0)"}:{y:44,opacity:0};
-      G.from(el,{...from,duration:1,ease:"expo.out",delay:+(el.dataset.rvDelay||0),scrollTrigger:{trigger:el,start:"top 90%",once:true}}); });
+      el.style.transition="none"; G.from(el,{...from,duration:1,ease:"expo.out",delay:+(el.dataset.rvDelay||0),clearProps:"transform,opacity,clipPath",onComplete:()=>{ el.style.transition=""; },scrollTrigger:{trigger:el,start:"top 90%",once:true}}); });
     $$("[data-rv-stagger]").forEach(g=>{ const r=g.getBoundingClientRect(); if(r.top<innerHeight*.92) return; const kids=[...g.children];
-      G.from(kids,{y:50,opacity:0,rotateX:-8,transformOrigin:"50% 0",duration:.9,ease:"expo.out",stagger:.07,scrollTrigger:{trigger:g,start:"top 88%",once:true}}); });
+      kids.forEach(k=>k.style.transition="none");
+      G.from(kids,{y:50,opacity:0,rotateX:-8,transformOrigin:"50% 0",duration:.9,ease:"expo.out",stagger:.07,clearProps:"transform,opacity,transformOrigin",onComplete:()=>kids.forEach(k=>{ k.style.transition=""; }),scrollTrigger:{trigger:g,start:"top 88%",once:true}}); });
   } else if("IntersectionObserver" in window){
     const io=new IntersectionObserver(es=>es.forEach(e=>{ if(e.isIntersecting){ e.target.style.transition="opacity .9s var(--e-out),transform .9s var(--e-out)"; e.target.style.opacity=""; e.target.style.transform=""; io.unobserve(e.target);} }),{rootMargin:"0px 0px -8% 0px"});
     els.forEach(el=>{ if(el.getBoundingClientRect().top>innerHeight){ el.style.opacity="0"; el.style.transform="translateY(40px)"; io.observe(el);} });

diff --git a/syllabus.html b/syllabus.html
@@ -729,9 +729,11 @@ BIO.initBg=function(){
   const renderer=new T.WebGLRenderer({antialias:false,alpha:true,powerPreference:"high-performance"});
   renderer.setPixelRatio(dpr); renderer.setSize(innerWidth,innerHeight); host.appendChild(renderer.domElement);
   const scene=new T.Scene(), cam=new T.PerspectiveCamera(50,innerWidth/innerHeight,.1,200); cam.position.set(0,0,22);
-  const read=()=>{ const cs=getComputedStyle(root), tmp=document.createElement("i"); document.body.appendChild(tmp);
-    const g=v=>{ tmp.style.color=cs.getPropertyValue(v); const m=getComputedStyle(tmp).color.match(/[\d.]+/g)||[255,120,160]; return new T.Color(m[0]/255,m[1]/255,m[2]/255); };
-    const out=[g("--c-accent"),g("--c-cool"),g("--c-ok")]; tmp.remove(); return out; };
+  /* resolve theme tokens (oklch) to RGB through a 1px canvas, which understands any CSS colour */
+  const px=document.createElement("canvas"); px.width=px.height=1; const pc=px.getContext("2d",{willReadFrequently:true});
+  const read=()=>{ const cs=getComputedStyle(root);
+    const g=v=>{ pc.clearRect(0,0,1,1); pc.fillStyle="#808080"; pc.fillStyle=cs.getPropertyValue(v).trim(); pc.fillRect(0,0,1,1); const d=pc.getImageData(0,0,1,1).data; return new T.Color(d[0]/255,d[1]/255,d[2]/255); };
+    return [g("--c-accent"),g("--c-cool"),g("--c-ok")]; };
   let [cA,cB,cC]=read();
   const uni={uT:{value:0},uA:{value:cA},uB:{value:cB},uC:{value:cC},uS:{value:dpr},uLight:{value:isDark()?0:1},uPulse:{value:0}};
 
@@ -846,9 +848,10 @@ function reveals(){
   if(G&&ST){
     els.forEach(el=>{ const r=el.getBoundingClientRect(); if(r.top<innerHeight*.92) return; const kind=el.dataset.rv;
       const from=kind==="left"?{x:-80,opacity:0}:kind==="right"?{x:80,opacity:0}:kind==="scale"?{scale:.92,opacity:0}:kind==="clip"?{clipPath:"inset(0 0 100% 0)"}:{y:44,opacity:0};
-      G.from(el,{...from,duration:1,ease:"expo.out",delay:+(el.dataset.rvDelay||0),scrollTrigger:{trigger:el,start:"top 90%",once:true}}); });
+      el.style.transition="none"; G.from(el,{...from,duration:1,ease:"expo.out",delay:+(el.dataset.rvDelay||0),clearProps:"transform,opacity,clipPath",onComplete:()=>{ el.style.transition=""; },scrollTrigger:{trigger:el,start:"top 90%",once:true}}); });
     $$("[data-rv-stagger]").forEach(g=>{ const r=g.getBoundingClientRect(); if(r.top<innerHeight*.92) return; const kids=[...g.children];
-      G.from(kids,{y:50,opacity:0,rotateX:-8,transformOrigin:"50% 0",duration:.9,ease:"expo.out",stagger:.07,scrollTrigger:{trigger:g,start:"top 88%",once:true}}); });
+      kids.forEach(k=>k.style.transition="none");
+      G.from(kids,{y:50,opacity:0,rotateX:-8,transformOrigin:"50% 0",duration:.9,ease:"expo.out",stagger:.07,clearProps:"transform,opacity,transformOrigin",onComplete:()=>kids.forEach(k=>{ k.style.transition=""; }),scrollTrigger:{trigger:g,start:"top 88%",once:true}}); });
   } else if("IntersectionObserver" in window){
     const io=new IntersectionObserver(es=>es.forEach(e=>{ if(e.isIntersecting){ e.target.style.transition="opacity .9s var(--e-out),transform .9s var(--e-out)"; e.target.style.opacity=""; e.target.style.transform=""; io.unobserve(e.target);} }),{rootMargin:"0px 0px -8% 0px"});
     els.forEach(el=>{ if(el.getBoundingClientRect().top>innerHeight){ el.style.opacity="0"; el.style.transform="translateY(40px)"; io.observe(el);} });
